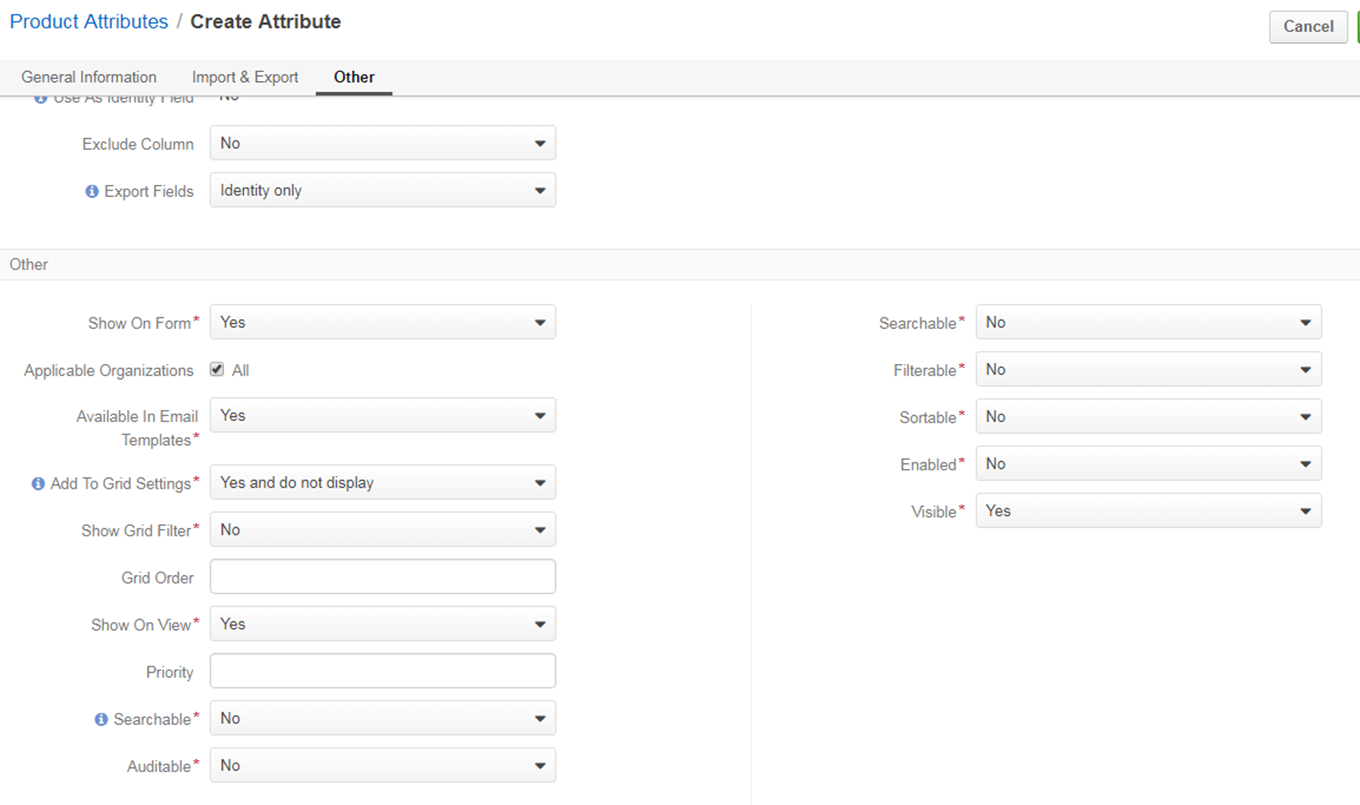
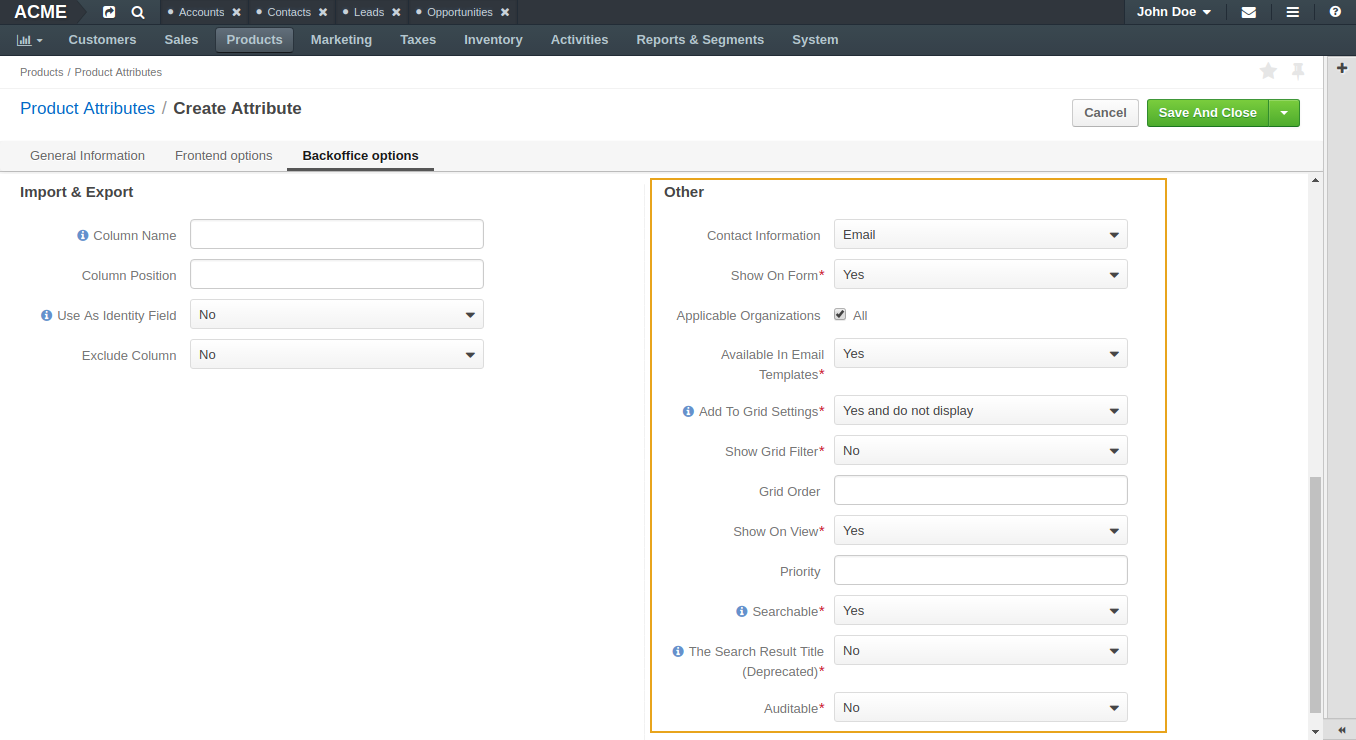
DOC-314: Manage product attributes' frontstore options (#14000)
* - other section divided into backoffice / frontend sections; - uncommented description of the frontend options; - added description of the fuzzy/exact search types; - added additional fields for string and descimal attribute types; - updated images.

* DOC-314: Review.

* - added description to grid order option, - adjusted description of grid filter option; - minor fixes

diff --git a/commerce/user_guide/products/product_attributes/create.rst b/commerce/user_guide/products/product_attributes/create.rst
@@ -6,7 +6,7 @@
 Create a Product Attribute
 ^^^^^^^^^^^^^^^^^^^^^^^^^^
 
-See a short demo on `how to create product attributes <https://www.orocommerce.com/media-library/create-product-attributes-families>`_, or keep reading the step-by-step guidance below.0
+See a short demo on `how to create product attributes <https://www.orocommerce.com/media-library/create-product-attributes-families>`_, or keep reading the step-by-step guidance below.
 
 .. raw:: html
 
@@ -25,14 +25,14 @@ To create an attribute:
 1. Navigate to **Products > Product Attributes** using the main menu.
 
    .. image:: /user_guide/img/products/product_attributes/ProductAttributes.png
-      :class: with-border
+
 
 2. Click **Create Attribute**.
 
    The following page opens:
 
    .. image:: /user_guide/img/products/product_attributes/ProductAttributesCreate.png
-      :class: with-border
+
 
 3. Complete the following fields:
 
@@ -82,7 +82,7 @@ Proceed to create the attribute as described below.
 
    .. image:: /user_guide/img/products/product_attributes/ProductAttributesCreate2_1.png
       :width: 450px
-      :class: with-border
+
 
    * **Label** -- Enter the attribute label. It will be displayed both in the management console and in the front store.
    * **Description** -- When filled in, the description will be used as a field tooltip when the attribute appears on the forms.
@@ -94,110 +94,140 @@ Proceed to create the attribute as described below.
       :widths: 15, 50
 
       "**Select** and **Multi-Select**","Perform the following actions:
-       1. Click **+ Add** next to *Options*.
+       1. Click **+ Add** next to **Options**.
        2. Type in the option label. Enable the check box next to the default option.
 
           .. image:: /user_guide/img/products/product_attributes/ProductAttributesCreate2_1_Select2.png
-             :class: with-border
+
 
        3. Repeat for more options.
 
           .. image:: /user_guide/img/products/product_attributes/ProductAttributesCreate2_1_Select3.png
-             :class: with-border
+
 
        4. Click **Do not set as default** link to clear the *Default* flag."
       "**Image**","Enter the maximum allowed file size and provide the thumbnail dimensions.
 
           .. image:: /user_guide/img/products/product_attributes/ProductAttributesCreate2_1_Image.png
-             :class: with-border"
+             "
       "**File**","Enter the maximum allowed file size.
 
          .. image:: /user_guide/img/products/product_attributes/ProductAttributesCreate2_1_File.png
-            :class: with-border"
+            "
+      "**String**","Enter the maximum allowed string length.
+
+         .. image:: /user_guide/img/products/product_attributes/ProductAttributesCreate2_1_String.png
+            "
+      "**Decimal**","Enter the following:
+
+         - *Precision* --- Maximum number of digits in a decimal number. For example, 15.252 has a precision of 5 and 1.12 has a precision of 3.
+         - *Scale* --- Maximum number of digits to the right of a decimal point. For example, 15,252 has a scale of 3 and 1.12 has a scale of 2.
+
+         .. image:: /user_guide/img/products/product_attributes/ProductAttributesCreate2_1_Decimal.png
+            "
       "**Relations**:
+
          - Many to Many
          - One to many
-         - Many to One","Complete the following fields:
+         - Many to One
+
+         ","Complete the following fields:
        - **Target Entity** -- Select the entity you wish to relate your current attribute to.
        - **Bidirectional** -- Select *Yes* or *No*. If set to *Yes*, the attribute and the selected entity will be interconnected.
-       - **Related Entity Data Fields** -- Available only for Many to Many and One to Many relations. Select those fields of the entity selected in *Target Entity* which contain information that you want to see on the master entity record edit page. These could be a couple of important details in addition to the title which gives you the most important information about the related entity record. Hold the Ctrl key to choose several fields.
-       - **Related Entity Info Title** -- Available only for Many to Many and One to Many relations. Select the fields of the entity selected in *Target Entity* by which the users can identify the related entity record. These fields serve as a title to the related entity record on the master entity pages. Choose these fields carefully. It would be a good idea to select a related entity name or similar information. On the view page of the master entity record, these fields will appear as links to the corresponding related entity record. On the edit page of the master entity record, you will see these fields as titles of the section that contains information selected in Related Entity Data Fields. Hold the Ctrl key to choose several fields.
-       - **Related Entity Detailed** -- Available only for Many to Many and One to Many relations. Select those fields of the entity selected in *Target Entity* which contain additional information that you want to see on the master entity record edit page. The values of the fields selected will be available in the dialog box that appears when you click the title of the related entity on the master page edit page. Hold the Ctrl key to choose several fields.
-       - **Target Field** -- Available only for Many to One relation. Select the field of the entity selected in Target Entity by which the entity records will be tied."
+       - **Related Entity Data Fields** -- Available only for the Many to Many and One to Many relations. Select those fields of the entity selected in **Target Entity** which contain information that you want to see on the master entity record edit page. These could be a couple of important details in addition to the title which gives you the most important information about the related entity record. Hold the Ctrl key to choose several fields.
+       - **Related Entity Info Title** -- Available only for the Many to Many and One to Many relations. Select the fields of the entity selected in **Target Entity** by which the users can identify the related entity record. These fields serve as a title to the related entity record on the master entity pages. Choose these fields carefully. It would be a good idea to select a related entity name or similar information. On the view page of the master entity record, these fields will appear as links to the corresponding related entity record. On the edit page of the master entity record, you will see these fields as titles of the section that contains information selected in **Related Entity Data Fields**. Hold the **Ctrl** key to choose several fields.
+       - **Related Entity Detailed** -- Available only for the Many to Many and One to Many relations. Select those fields of the entity selected in **Target Entity** which contain additional information that you want to see on the master entity record edit page. The values of the fields selected will be available in the dialog that appears when you click the title of the related entity on the master page edit page. Hold the **Ctrl** key to choose several fields.
+       - **Target Field** -- Available only for the Many to One relation. Select the field of the entity selected in **Target Entity** by which the entity records will be tied."
 
-3. Fill in **Import & Export** details, if the products should be eligible for import/export:
+#. In the **Frontend options** section, set up the front store options applicable to the product attribute.
 
-   .. image:: /user_guide/img/products/product_attributes/ProductAttributesCreate2_1_Import.png
-      :class: with-border
+   .. image:: /user_guide/img/products/product_attributes/productattributes_create_frontend.png
 
-   * **Column Name** -- Enter the name of the column (in a CSV file) that would represent the attribute you are creating. If left blank, a label will be used.
-   * **Column Position** -- Type a number that corresponds to the position of the attribute in a CSV file.
-   * **Use As Identity** -- Specify whether this column should be used as an identifier of the entity record. Select *No*, *Only when not empty*, or *Always*. If set to *Only when not empty*, the field may be omitted in the identity when it has no value.
-   * **Exclude Column** -- Select *No*, if you want this field available for export, or *Yes* if you wish to exclude the column.
-
-4. In the **Other** section, specify the configuration options for the product attribute view, search and use in the management console and front store.
-
-   .. note:: Please note that additional options in the **Other** section depend on the type selected for the attribute (e.g. image, text, multi-select, etc.).
-
-   .. image:: /user_guide/img/products/product_attributes/ProductAttributesCreateOther.png
-      :class: with-border
-
-  ..  In the management console:
+   .. note:: Please note that if the option is not applicable to attributes of the selected type (e.g. image, text, multi-select, etc.), it does not appear in this section.
 
    .. csv-table::
       :header: "Field", "Description"
       :widths: 15, 50
 
-      "**Available In Email Templates**","Select *Yes* if you wish this field to be available in email templates. The following is a sample flow of using the attribute in templates:
-       1.  When creating and attribute, mark it as *Available in Templates*.
+      "**Searchable**","If enabled, attribute content can be found in the front store via search."
+      "**Filterable**","Defines whether a dedicated filter is available for the attribute in the front store."
+      "**Filter By**","Defines the type of filtering to be applied to the attribute:
+
+       - *Fuzzy search* --- Find the exactly matching text and similar words. This type of filtering helps find the required values even if the entered text contains typos or incomplete words.
+       - *Exact value* --- Look for the values that exactly match the entered text.
+
+       "
+      "**Sortable**","Defines whether sorting is available for the attribute in the front store."
+      "**Enabled**","Defines whether the attribute is enabled in the front store."
+      "**Visible**","Defines whether the attribute is visible or hidden in the front store."
+
+#. In the **Backoffice options** section, fill in the **Import & Export** subsection to configure details of the product attribute's import/export:
+
+   .. image:: /user_guide/img/products/product_attributes/ProductAttributesCreate2_1_Import.png
+
+   * **Column Name** -- Enter the name of the column (in a CSV file) that would represent the attribute you are creating. If left blank, a label will be used.
+   * **Column Position** -- Type a number that corresponds to the position of the attribute in a CSV file.
+   * **Use As Identity** -- Specify whether this column should be used as an identifier of the entity record. Select *No*, *Only when not empty*, or *Always*. If set to *Only when not empty*, the field may be omitted in the identity when it has no value.
+   * **Exclude Column** -- Select *No*, if you want this field available for export, or *Yes* if you wish to exclude the column.
+   * **Export Fields** -- If the attribute is of the relation type, this option defines which fields of the related entity record to export:
+
+     - *Identity only* -- Export only the field that serves as an identifier of the related entity record.
+     - *All* -- Export all fields of the related entity record.
+
+4. In the **Backoffice options** section, fill in the **Other** subsection, specifying the configuration options for the product attribute view, search and use in the management console and front store.
+
+   .. note:: Please note that available options depend on the type selected for the attribute (e.g. image, text, multi-select, etc.).
+
+   .. image:: /user_guide/img/products/product_attributes/ProductAttributesCreateOther.png
+
+
+   .. csv-table::
+      :header: "Option", "Description"
+      :widths: 15, 50
+
+      "**Contact Information**","Labels the product attribute as a contact information that may be used in the marketing lists. The contact information may be:
+
+       - Empty --- In this case, the product attribute will not be treated as contact information.
+       - *Email* --- When this option is selected, the product attribute value is treated by marketing lists as email addresses.
+       - *Phone* --- When this option is selected, the product attribute value is treated by marketing lists as a phone number.
+
+       .. image:: /user_guide/img/products/product_attributes/AttributesContactInformation.png
+             "
+      "**Show on Form**","In this field, select *Yes* if you wish to have the product attribute displayed and be editable on record and page edits."
+      "**Applicable Organization**","This check box determines whether you want the product attribute to be available throughout all organizations.
+
+       .. image:: /user_guide/img/products/product_attributes/AttributesApplicableOrganization.png
+            "
+      "**Available In Email Templates**","Select *Yes* if you wish the product attribute to be available in email templates. To use the product attribute value in the email template:
+       1.  When creating and attribute, mark it as *Available in Email Templates*.
        2.  Navigate to **System > Emails > Templates** and click **Create Email Template**.
        3.  In the template, select *Product* as the entity that the template should relate to.
        4.  On the entity variables list on the right, find the attribute and click on it to add to the template.
 
            .. image:: /user_guide/img/products/product_attributes/AttributeInTemplate.png
-              :class: with-border"
-      "**Add To Grid Settings**","The option controls the availability and display of a field in the Products grid:
-       - By default, *Yes and Display* is selected which makes the field available for use in the grid.
-       - The *Yes and do not display* option means that the field is hidden by default.
-       - The *Yes as Mandatory* option adds it permanently to all grid views."
-      "**Show Grid Filter**","Select *Yes* to display the filter for the field on the user interface. Select *No*, and it will not be displayed by default, but you can add it as a filter if needed."
-      "**Show on Form**","In the Show on Form field, select *Yes* if you wish to have this field displayed and be editable on record and page edits."
-      "**Applicable Organization**","This check box determines whether you want this field to be available throughout all organizations.
-
-         .. image:: /user_guide/img/products/product_attributes/AttributesApplicableOrganization.png
-            :class: with-border"
-      "**Contact Information**","Contact Information field has 3 possible values:
-       - If you leave the field empty, it will not be treated as contact information.
-       - Selecting *Email* in this field means that the values of the field are treated by marketing lists as email addresses.
-       - If Phone is selected, the values of the field are treated by marketing lists as a phone number.
-
-          .. image:: /user_guide/img/products/product_attributes/AttributesContactInformation.png.
-             :class: with-border"
-      "**Show On View**","Select *Yes* if you wish to have this field displayed on the Product view page."
-      "**Priority**","Priority defines the order of the fields in view, edit, create pages and the grid.
-                      Custom fields are always displayed one after another, usually below the system fields. If no priority is defined or the defined priority is 0, the fields will be displayed in the order in which they have been added to the system. The fields with a higher priority (a smaller value) will be displayed before the fields with a lower priority."
+              "
+      "**Add To Grid Settings**","The option controls the availability and display of the product attribute in the products grid:
+       - By default, *Yes and Display* is selected which makes the product attribute available and visible in the grid.
+       - The *Yes and do not display* option means that the product attribute is hidden by default, but the visibility may be toggled in the grid settings.
+       - The *Yes as Mandatory* option adds it permanently to all grid views and disables visibility toggle.
+       - *No* -- The product attribute visibility and appearance order cannot be toggled in the grid settings"
+      "**Show Grid Filter**","Select *Yes* to display the filter for the product attribute on the user interface."
+      "**Grid Order**","Defines the order of the product attributes in the product grid. The product attributes with a smaller value of the grid order number will be displayed before the attributes with a bigger value."
+      "**Show On View**","Select *Yes* if you wish to have this product attribute displayed on the product view page."
+      "**Priority**","Priority defines the order of the product attributes on the view, edit, create pages.
+                      Custom product attributes are always displayed one by one, usually below the system fields. If no priority is defined or the defined priority is 0, the product attributes will be displayed in the order in which they have been added to the system. The product attributes with a higher priority (a smaller value) will be displayed before the attributes with a lower priority."
       "**Searchable**","When set to *Yes*, the attribute is included into the search options in the management console."
-      "**Auditable**","When set to *Yes*, the the system will log changes made to this field values when users edit entity records."
+      "**Auditable**","When set to *Yes*, the system will log changes made to this product attribute value when a user edits the product details."
 
-.. In the front store
-    .. csv-table::
-      :header: "Field", "Description"
-      :widths: 15, 50
-      "**Searchable**","If enabled, attribute content can be found in the front store."
-      "**Filterable**","Defines whether filter is available for the attribute in the front store."
-      "**Filter By**","This field defines the type of filtering to be applied to the attribute." 
-      "**Sortable**","Defines whether sorting is available for the attribute in the front store."
-      "**Enabled**","Defines whether the attribute is enabled in the front store."
-      "**Visible**","Defines whether the attribute is visible or hidden in the front store."
-
-
-5. Once all options and information are provided, click **Save**.
+5. Once all options are configured and the necessary information is provided, click **Save**.
 
 6. If the created attribute is of a *table column* storage type, click **Update Schema** to reindex the data for search and filter.
 
    .. note:: The product attribute storage type is set to *table column* for the attribute with Select of Multi-Select data type, and also for the attribute of any type with *Filterable* or *Sortable* option enabled. If this step is omitted, the newly created attribute will not appear in the select attribute options in other areas of OroCommerce (e.g. product families configuration).
 
-   .. image:: /user_guide/img/products/product_attributes/AttributeStorageType.png
+      You can check an attribute's storage type on the page with the attributes list:
+
+      .. image:: /user_guide/img/products/product_attributes/AttributeStorageType.png
 
 .. TO DO Add links to entity management doc to explain table column + serialized fields.
 
